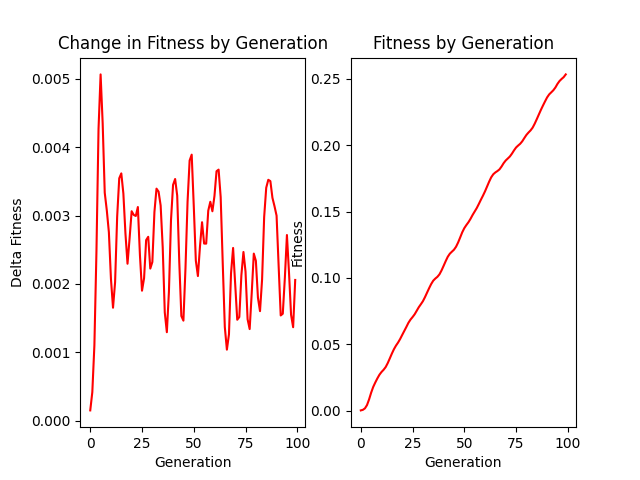
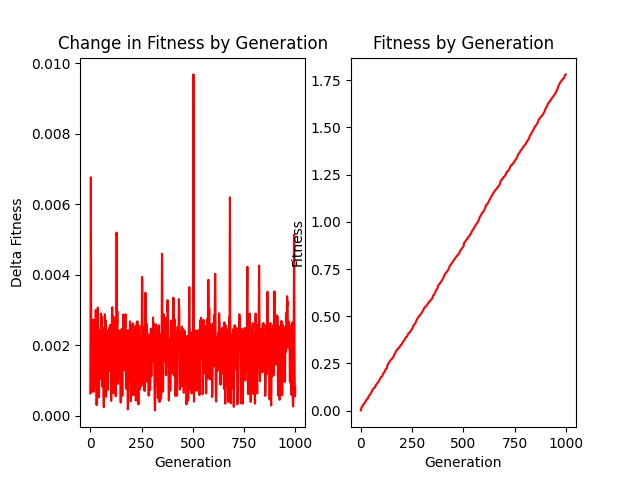
with code to check fixation in transfer-too.py

diff --git a/transfer-too.py b/transfer-too.py
@@ -1,6 +1,7 @@
 import numpy as np
 from matplotlib import pyplot as plt
 import random
+import sys
 
 def average_fitness(genome):
     return np.average(np.sum(genome, axis=1) * U_b)
@@ -47,18 +48,20 @@ def reproductive_update(genome):
 if __name__ == '__main__':
     ### PARAMS ##
     population = 10**4
-    polymorphic_sites = 5
+    polymorphic_sites = 1
     U_b = 0.01
     activated_proportion = 0.01
-    generations = 1000
+    generations = 100
     mutation_prob = 10 ** -3
-    num_recombinations = 10 # on order of beneficial mutation rate
+    num_recombinations = 100 # on order of beneficial mutation rate
     ### PARAMS ###
 
     genome = np.zeros((population, polymorphic_sites))
 
     for i in range(population):
-         genome[i] = np.array([np.random.binomial(1, activated_proportion) for _ in range(polymorphic_sites)])
+        # genome[i] = np.array([np.random.binomial(1, activated_proportion) for _ in range(polymorphic_sites)])
+        genome[i] = 0
+    genome[0][0] = 1
 
     old_fitness = average_fitness(genome)
     fitness_deltas = []
@@ -70,7 +73,13 @@ if __name__ == '__main__':
         fitness_progression.append(new_fitness)
         fitness_deltas.append(new_fitness - old_fitness)
         old_fitness = new_fitness
-        print(f'Done with generation {gen}')
+        print(f'Done with generation {gen}', sum(genome[:, 0]/population))
+        if sum(genome[:, 0]) == population:
+            print('Fixed')
+            sys.exit()
+        elif sum(genome[:, 0]) == 0:
+            print('Extinct')
+            sys.exit()
 
     plt.figure(figsize=(40, 40))
 
@@ -89,5 +98,4 @@ if __name__ == '__main__':
     plt.savefig(f'{num_recombinations} recombinations.png')
 
     print(genome, genome.shape)
-    
 

diff --git a/transfer-three.py b/transfer-three.py
@@ -94,9 +94,9 @@ class PopulationGenome():
 
 if __name__=='__main__':
     print('Hello Transfer Three World')
-    #TODO modifying recombination rate with a changing rate, tied to each lineage
+    #TODO modifying recombination rate with a changing rate, tied to a lineage once it develops
     #TODO environmental pressure? probably too hard
-    #TODO comparison to meiotic theory
+    #TODO comparison to meiotic theory (do not simulate)
     #TODO read paper from Good & Ferrare https://www.biorxiv.org/content/10.1101/2023.07.12.548717v1.full.pdf
 
     num_recombinations_list = [0, 1, 10, 100, 1000]
